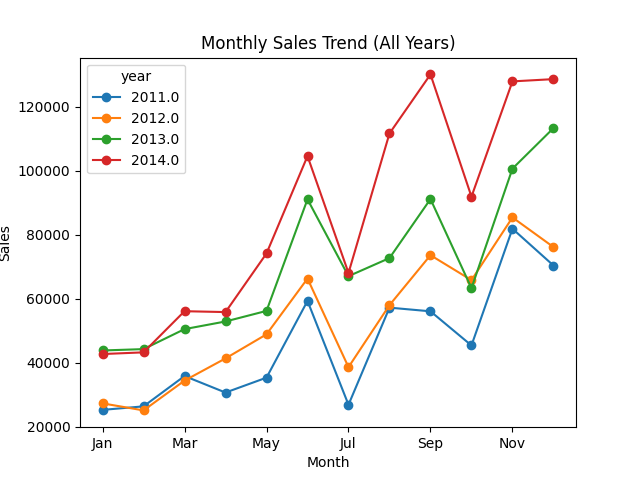
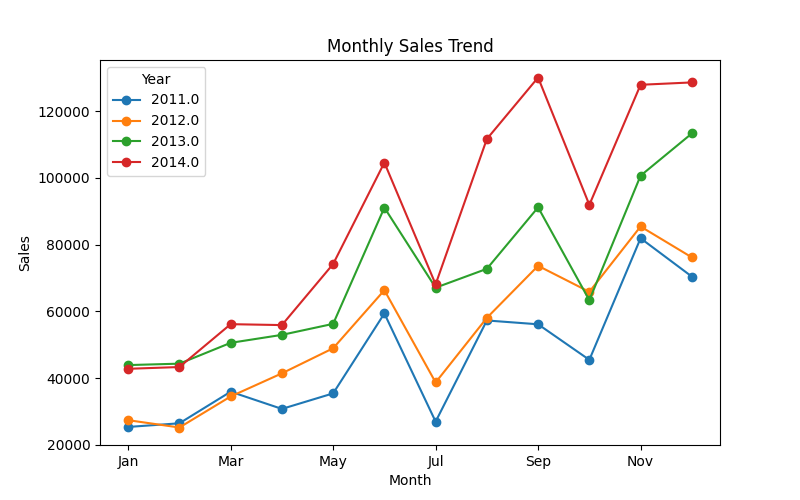
plot graphs catergory and regon wise in sales and profit

diff --git a/Analysis_Superstore_Sales/Superstoreorder.py b/Analysis_Superstore_Sales/Superstoreorder.py
@@ -14,6 +14,8 @@ df = df.dropna()
 # Convert sales to numeric
 df["sales"] = pd.to_numeric(df["sales"], errors="coerce")
 
+df["profit"] = pd.to_numeric(df["profit"], errors="coerce")
+
 # Convert date (handles mixed formats)
 df["order_date"] = pd.to_datetime(df["order_date"], errors="coerce", dayfirst=True)
 
@@ -27,16 +29,49 @@ total_sales = df["sales"].sum()
 sales_year = df.groupby("year")["sales"].sum()
 
 # Monthly trend
-
 df["month"] = df["order_date"].dt.strftime("%b")
-df["year"] = df["order_date"].dt.year
 month_order = ["Jan","Feb","Mar","Apr","May","Jun","Jul","Aug","Sep","Oct","Nov","Dec"]
 df["month"] = pd.Categorical(df["month"], categories=month_order, ordered=True)
 monthly_sales = df.groupby(["year","month"])["sales"].sum().unstack()
+
+# Sales by Category
+sales_category = df.groupby("category")["sales"].sum()
+category_year_sales = df.groupby(["category", "year"])["sales"].sum().unstack()
+
+# Sales by Region
+sales_region = df.groupby("region")["sales"].sum()
+region_year_sales = df.groupby(["region", "year"])["sales"].sum().unstack()
+# Total profit
+total_profit = df["profit"].sum()
+
+# Profit by Year
+profit_year= df.groupby("year")["profit"].sum()
+# Profit by Category
+profit_catergory= df.groupby("category")["profit"].sum()
+category_year_profit = df.groupby(["category", "year"])["profit"].sum().unstack()
+
+# Profit by region
+profit_region= df.groupby("region")["profit"].sum()
+region_year_profit = df.groupby(["region", "year"])["profit"].sum().unstack()
+
+# Top 10 Products
+top_products = df.groupby("product_name")["sales"].sum().sort_values(ascending=False).head(10)
+
 # Save summary
 with pd.ExcelWriter("Analysis_Superstore_Sales/output/superstore_summary.xlsx") as writer:
+
+    # Sales sheets
     sales_year.to_excel(writer, sheet_name="Sales by Year")
     monthly_sales.to_excel(writer, sheet_name="Monthly Sales")
+    sales_category.to_excel(writer, sheet_name="Sales by Category")
+    category_year_sales.to_excel(writer, sheet_name="Category Sales Year")
+    sales_region.to_excel(writer, sheet_name="Sales by Region")
+    region_year_sales.to_excel(writer, sheet_name="Region Sales Year")
+
+    # Profit sheets
+    profit_year.to_excel(writer, sheet_name="Profit by Year")
+    category_year_profit.to_excel(writer, sheet_name="Profit by Category")
+    region_year_profit.to_excel(writer, sheet_name="Profit by Region")
 
 # Chart 1
 sales_year.plot(kind="bar", title="Sales by Year")
@@ -44,11 +79,156 @@ plt.savefig("Analysis_Superstore_Sales/output/charts/year_sales.png")
 plt.clf()
 
 # Chart 2
-monthly_sales.T.plot(marker="o", title="Monthly Sales Trend (All Years)")
+monthly_sales.T.plot(marker="o", figsize=(8,5), title="Monthly Sales Trend")
 plt.xlabel("Month")
 plt.ylabel("Sales")
+plt.legend(title="Year")
 plt.savefig("Analysis_Superstore_Sales/output/charts/monthly_sales.png")
 plt.clf()
 
+# Chart 3
+# sales_category.plot(kind="bar", title="Sales by category")
+# plt.xlabel("category")
+# plt.ylabel("Sales")
+# plt.savefig("Analysis_Superstore_Sales/output/charts/catergory_sales.png")
+# plt.clf()
+
+# plotting a vertical multiseries bar chart 
+# category_year_sales.plot(kind="bar", title="Sales by Category (Year-wise)")
+# plt.xlabel("Category")
+# plt.ylabel("Sales")
+# plt.savefig("Analysis_Superstore_Sales/output/charts/catergory_sales.png")
+# plt.clf()
+#plotting a stack bar chat for sales 
+# category_year_sales.plot(
+#     kind="bar",
+#     stacked=True,
+#     title="Sales by Category (Year-wise Stacked)"
+# )
+
+# plt.xlabel("Category")
+# plt.ylabel("Sales")
+# plt.legend(title="Year")
+
+# plt.savefig("Analysis_Superstore_Sales/output/charts/catergory_sales.png")
+# plt.clf()
+
+# Create figure with 2 charts
+fig, ax = plt.subplots(1, 2, figsize=(12,5))
+
+# Chart 1: Vertical bar chart
+category_year_sales.plot(kind="bar", ax=ax[0], title="Category Sales (Year-wise)")
+ax[0].set_xlabel("Category")
+ax[0].set_ylabel("Sales")
+
+# Chart 2: Stacked bar chart
+category_year_sales.plot(kind="bar", stacked=True, ax=ax[1], title="Category Sales (Stacked)")
+ax[1].set_xlabel("Category")
+ax[1].set_ylabel("Sales")
+
+# Adjust layout
+plt.tight_layout()
+
+# Save both charts in one image
+plt.savefig("Analysis_Superstore_Sales/output/charts/catergory_sales.png")
+plt.clf()
+
+# Chart 4
+# sales_region.plot(kind="bar", title="Sales by Region")
+# plt.xlabel("region")
+# plt.ylabel("Sales")
+# plt.savefig("Analysis_Superstore_Sales/output/charts/region_sales.png")
+# plt.clf()
+# Create figure with 2 charts
+fig, ax = plt.subplots(1, 2, figsize=(20,8))
+
+# Chart 1: Vertical bar chart
+region_year_sales.plot(kind="bar", ax=ax[0], title="Region Sales (Year-wise)")
+ax[0].set_xlabel("region")
+ax[0].set_ylabel("Sales")
+
+# Chart 2: Stacked bar chart
+region_year_sales.plot(kind="bar", stacked=True, ax=ax[1], title="Region Sales (Stacked)")
+ax[1].set_xlabel("region")
+ax[1].set_ylabel("Sales")
+
+# Adjust layout
+plt.tight_layout()
+
+# Save both charts in one image
+plt.savefig("Analysis_Superstore_Sales/output/charts/region_sales.png")
+plt.clf()
 print("Total sales:", total_sales)
 print("Superstore analysis completed!")
+
+# Chart 5
+profit_year.plot(kind="bar", title="Profit by Year")
+plt.savefig("Analysis_Superstore_Sales/output/charts/year_profit.png")
+plt.clf()
+
+# Chart 6
+# profit_catergory.plot(kind="bar", title="Profit by catergory")
+# plt.xlabel("Category")
+# plt.ylabel("profit")
+# plt.savefig("Analysis_Superstore_Sales/output/charts/profit_by_catergory.png")
+# plt.clf()
+
+# category_year_profit.plot(kind="bar", stacked=True, title="Profit by Category (Year-wise Stacked)")
+
+# plt.xlabel("Category")
+# plt.ylabel("profit")
+# plt.legend(title="Year")
+
+# plt.savefig("Analysis_Superstore_Sales/output/charts/catergory_profit_stack.png")
+# plt.clf()
+# category_year_profit.plot(kind="bar", title="profit by Category (Year-wise)")
+# plt.xlabel("Category")
+# plt.ylabel("profit")
+# plt.savefig("Analysis_Superstore_Sales/output/charts/catergory_profit_vertical.png")
+# plt.clf()
+# Create figure with 2 charts
+fig, ax = plt.subplots(1, 2, figsize=(20,8))
+
+# Chart 1: Vertical bar chart
+category_year_profit.plot(kind="bar", ax=ax[0], title="Catergory profit (Year-wise)")
+ax[0].set_xlabel("Category")
+ax[0].set_ylabel("profit")
+
+# Chart 2: Stacked bar chart
+category_year_profit.plot(kind="bar", stacked=True, ax=ax[1], title="Catergory profit (Stacked)")
+ax[1].set_xlabel("Category")
+ax[1].set_ylabel("profit")
+
+# Adjust layout
+plt.tight_layout()
+
+# Save both charts in one image
+plt.savefig("Analysis_Superstore_Sales/output/charts/Category_profit_stack&vertical.png")
+plt.clf()
+
+#Chart 7
+# Create figure with 2 charts
+fig, ax = plt.subplots(1, 2, figsize=(20,8))
+
+# Chart 1: Vertical bar chart
+region_year_profit.plot(kind="bar", ax=ax[0], title="Region profit (Year-wise)")
+ax[0].set_xlabel("region")
+ax[0].set_ylabel("profit")
+
+# Chart 2: Stacked bar chart
+region_year_profit.plot(kind="bar", stacked=True, ax=ax[1], title="Region profit (Stacked)")
+ax[1].set_xlabel("region")
+ax[1].set_ylabel("profit")
+
+# Adjust layout
+plt.tight_layout()
+
+# Save both charts in one image
+plt.savefig("Analysis_Superstore_Sales/output/charts/region_profit_stack&vertical.png")
+plt.clf()
+
+#chart 8
+top_products.plot(kind="barh", title="Top 10 Products by Sales")
+plt.xlabel("Sales")
+plt.savefig("Analysis_Superstore_Sales/output/charts/top_products.png")
+plt.clf()
